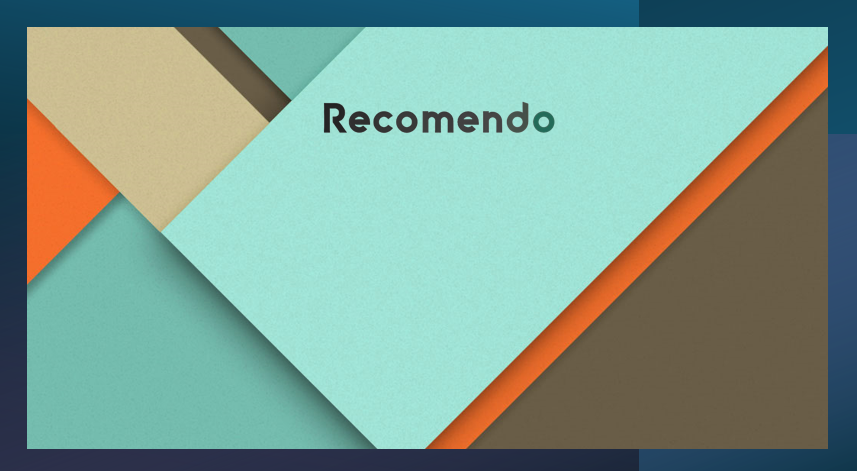
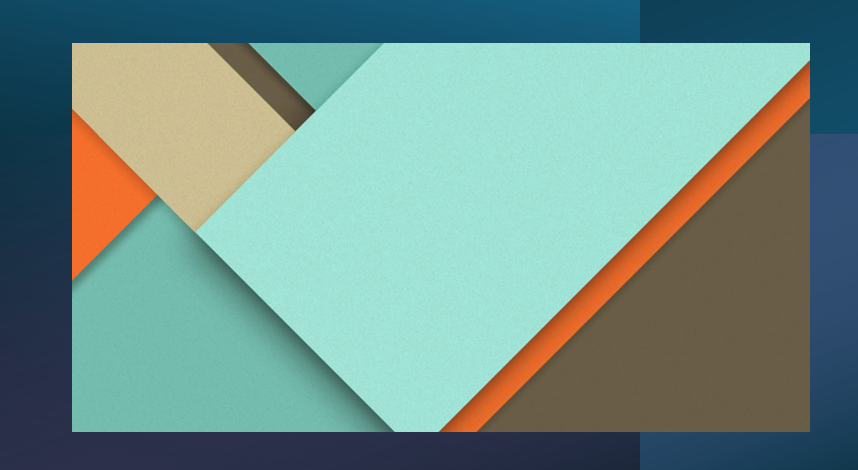
updates templates
adds Index function ,  establishes homepage, fixes empty layout with bkg image

diff --git a/templates/empty.layout.html b/templates/empty.layout.html
@@ -13,29 +13,10 @@
   <link rel="icon" type="images/x-icon" href="https://github.com/bblank70/Recommendo/blob/main/templates/static/ServingDish.jpg?raw=true" />
   <style>
     body {
-      /* background-color: rgb(149, 182, 205 );  */
-      background-image: url('img_girl.jpg');
-      height: 100%;
-      font-size: 80%;
-    }
-
-    p {
-      font-size: 100%;
-      padding-top: 0;
-    }
-
-    legend {
-      font-size: 100%;
-      font-weight: bold;
-    }
-
-    strong {
-      font-weight: bold;
-      font-size: 110%;
-    }
-
-    a {
-      color: rgb(148, 176, 49);
+      background-image: url("https://github.com/bblank70/Recommendo/blob/reafactor2pkg/templates/static/bkg.png?raw=true");
+      background-repeat: no-repeat;
+      background-attachment: fixed;
+      background-size: cover;
     }
 
     .center {
@@ -46,9 +27,6 @@
     }
 
 
-
-
-
   </style>
 
   
@@ -56,11 +34,6 @@
 
 <body>
 
-
-
-
-
-        
     {{block "content" .}}
     {{end}}
 

diff --git a/templates/home.page.html b/templates/home.page.html
@@ -1,0 +1,26 @@
+{{template "empty" .}}
+
+{{define "content"}}
+
+
+<div class = "container">
+    <div class = "row">
+          <div class = "col">
+                  <p>This is a TEST normally put user form here</p>
+          </div>
+    </div>
+ 
+</div>
+
+{{end}}
+	
+
+{{define "js"}}
+
+{{end}}
+
+
+
+</html>
+
+

diff --git a/templates/recs.page.html b/templates/recs.page.html
@@ -5,7 +5,6 @@
   <div class = "row">
     <div class = "col">
       <h1 class = "mt-5">It works!</h1>
-
     </div>
   </div>
 </div>

diff --git a/pkg/render/render.go b/pkg/render/render.go
@@ -9,8 +9,10 @@ import (
 	"path/filepath"
 )
 
+// //currently app runs in debug mode with RenderTemplate, in production, switch to RenderCachedTemplate in handlers.go
 func RenderTemplate(w http.ResponseWriter, tmpl string) {
-	parsedTemplate, _ := template.ParseFiles("./templates/"+tmpl, "./templates/base.layout.html")
+	parsedTemplate, _ := template.ParseFiles("./templates/"+tmpl, "./templates/base.layout.html",
+		"./templates/empty.layout.html")
 	err := parsedTemplate.Execute(w, nil)
 	if err != nil {
 		fmt.Println("error parsing template:", err)

diff --git a/pkg/handlers/handlers.go b/pkg/handlers/handlers.go
@@ -14,3 +14,12 @@ func Recs(w http.ResponseWriter, r *http.Request) {
 	// render.RenderTemplate(w, "base.html", Dataslice)
 	// tpl.ExecuteTemplate(w, "base.html", Dataslice)
 }
+
+func Index(w http.ResponseWriter, r *http.Request) {
+	render.RenderTemplate(w, "home.page.html") ///used for debugging templates
+
+	// render.RenderCachedTemplates(w, "base.html") ///puts the template in production
+
+	// render.RenderTemplate(w, "base.html", Dataslice)
+	// tpl.ExecuteTemplate(w, "base.html", Dataslice)
+}

diff --git a/cmd/web/main.go b/cmd/web/main.go
@@ -84,6 +84,8 @@ func main() {
 	}
 
 	// these are our paths
+	http.HandleFunc("/", handlers.Index)
+
 	http.HandleFunc("/recs", handlers.Recs)
 
 	// //this starts the server
